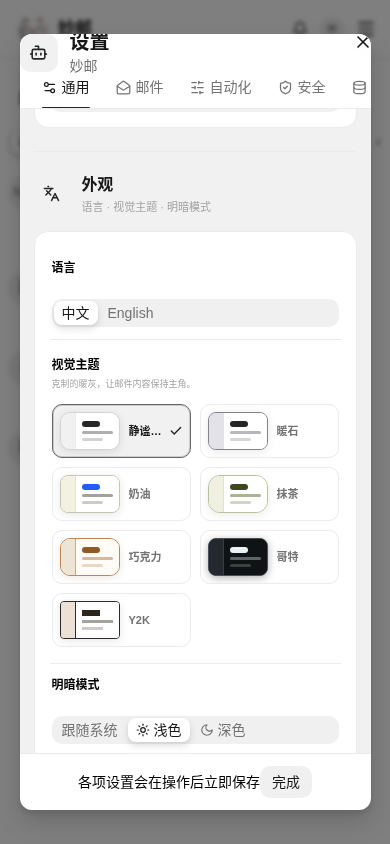
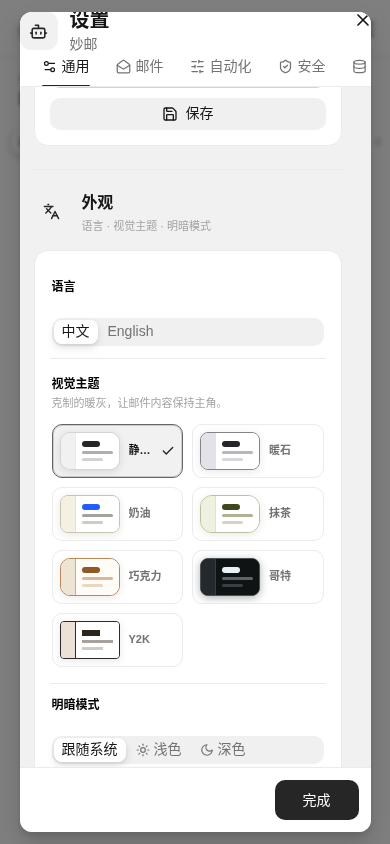
feat: release Meowmail 0.4.0

diff --git a/web/src/styles/app.css b/web/src/styles/app.css
@@ -299,14 +299,19 @@ button { touch-action: manipulation; }
 
 /* Account dialog */
 .account-dialog-form, .account-dialog-layout { width: 100%; min-height: 0; }
-.account-dialog-layout { height: min(800px, 92dvh); }
-.account-dialog-content { min-height: 0; background: var(--bg-subtle); }
+.account-dialog-layout { height: min(800px, calc(100dvh - 32px)); }
+.account-dialog-content { min-height: 0; overflow: auto; overscroll-behavior: contain; scrollbar-gutter: stable; background: var(--bg-subtle); }
 .account-dialog-icon { display: grid; place-items: center; width: 36px; height: 36px; border-radius: 11px; background: var(--accent-soft); color: var(--accent); }
 .account-dialog-icon svg { width: 18px; height: 18px; }
 .account-dialog-sections { min-height: 100%; background: var(--bg-surface); }
 .account-form-section { padding: 20px 24px; }
 .account-form-section + .account-form-section { border-top: 1px solid var(--border); }
+.account-preset-section { display: grid; gap: 12px; }
+.account-preset-heading { display: grid; gap: 2px; }
+.account-preset-heading strong { font-size: 12px; }
+.account-preset-heading small { color: var(--text-tertiary); font-size: 10px; line-height: 1.5; }
 .account-preset-row, .account-dialog-actions { display: flex; align-items: center; flex-wrap: wrap; gap: 8px; }
+.account-preset-row > button { flex: 0 0 auto; }
 .account-form-grid { display: grid; grid-template-columns: repeat(2, minmax(0, 1fr)); gap: 16px; }
 .account-server-grid { display: grid; grid-template-columns: repeat(2, minmax(0, 1fr)); gap: 14px; background: var(--bg-subtle); }
 .account-server-card { display: grid; gap: 14px; padding: 16px; border: 1px solid var(--border); border-radius: 14px; background: var(--bg-surface); }
@@ -325,10 +330,13 @@ button { touch-action: manipulation; }
 .account-native-field input { width: 100%; height: 32px; padding: 0 10px; border: 1px solid var(--border-strong); border-radius: 8px; outline: 0; background: var(--bg-surface); color: var(--text-primary); font: inherit; font-weight: 450; transition: border-color var(--duration-fast) var(--ease-out), box-shadow var(--duration-fast) var(--ease-out); }
 .account-native-field input::placeholder { color: var(--text-tertiary); opacity: .82; }
 .account-native-field input:focus { border-color: var(--accent); box-shadow: 0 0 0 3px color-mix(in srgb, var(--accent) 11%, transparent); }
+.account-dialog-footer { background: color-mix(in srgb, var(--bg-elevated) 94%, transparent); }
 .account-dialog-footer > div { display: flex; align-items: center; justify-content: space-between; gap: 14px; width: 100%; }
+.account-dialog-actions > button:first-child { min-width: 112px; }
+.account-dialog-actions > button:last-child { min-width: 76px; }
 
 .settings-dialog { position: relative; }
-.settings-dialog-layout { width: 100%; height: min(780px, 92dvh); min-height: min(680px, 92dvh); }
+.settings-dialog-layout { width: 100%; height: min(780px, calc(100dvh - 32px)); min-height: min(680px, calc(100dvh - 32px)); }
 .settings-dialog-header { background: color-mix(in srgb, var(--bg-elevated) 92%, transparent); backdrop-filter: blur(24px) saturate(160%); }
 .settings-dialog-icon, .settings-panel-icon {
   display: grid;
@@ -343,8 +351,8 @@ button { touch-action: manipulation; }
 .settings-tab-list { overflow-x: auto; padding-inline: 18px; scrollbar-width: none; }
 .settings-tab-list::-webkit-scrollbar { display: none; }
 .settings-tab-list svg { width: 15px; height: 15px; }
-.settings-dialog-content { min-height: 0; background: var(--bg-subtle); }
-.settings-tab-panel { width: min(760px, calc(100% - 48px)); min-height: 100%; margin: 0 auto; padding: 32px 0 72px; outline: 0; }
+.settings-dialog-content { min-height: 0; overflow: auto; overscroll-behavior: contain; scrollbar-gutter: stable; background: var(--bg-subtle); }
+.settings-tab-panel { width: min(760px, calc(100% - 48px)); min-height: 100%; margin: 0 auto; padding: 30px 0 48px; outline: 0; }
 .settings-panel-stack { display: grid; gap: 18px; }
 .settings-panel-heading { display: flex; align-items: flex-start; gap: 12px; }
 .settings-panel-icon { width: 36px; height: 36px; margin-top: 1px; }
@@ -372,7 +380,7 @@ button { touch-action: manipulation; }
 .settings-choice-row + .settings-choice-row { border-top: 1px solid var(--border); }
 .settings-choice-row > div:first-child { display: grid; min-width: 0; }
 .settings-choice-row strong { font-size: 12px; }
-.settings-choice-row small { margin-top: 3px; color: var(--text-tertiary); font-size: 9px; }
+.settings-choice-row small { margin-top: 3px; color: var(--text-tertiary); font-size: 11px; line-height: 1.45; }
 .settings-theme-choice-row { align-items: flex-start; flex-direction: column; gap: 12px; padding-block: 16px; }
 .settings-theme-grid { display: grid; grid-template-columns: repeat(2, minmax(0, 1fr)); gap: 9px; width: 100%; margin: 0; padding: 0; border: 0; }
 .settings-theme-option { position: relative; display: grid; grid-template-columns: 60px minmax(0, 1fr); align-items: center; gap: 9px; min-width: 0; padding: 7px; overflow: hidden; border: 1px solid var(--border); border-radius: var(--radius-control); background: color-mix(in srgb, var(--bg-surface) 88%, transparent); cursor: pointer; transition: transform 140ms var(--ease-out), border-color 140ms ease, background-color 140ms ease, box-shadow 140ms ease; }
@@ -398,7 +406,7 @@ button { touch-action: manipulation; }
 .settings-status-row { display: flex; align-items: center; justify-content: space-between; gap: 18px; }
 .settings-status-row > div { display: grid; min-width: 0; }
 .settings-status-row strong { font-size: 12px; }
-.settings-status-row small { max-width: 560px; margin-top: 3px; color: var(--text-tertiary); font-size: 9px; line-height: 1.5; }
+.settings-status-row small { max-width: 560px; margin-top: 3px; color: var(--text-tertiary); font-size: 11px; line-height: 1.5; }
 .settings-code-row { display: flex; align-items: center; justify-content: space-between; gap: 14px; padding: 11px 12px; border-radius: 10px; background: var(--bg-muted); color: var(--text-tertiary); font-size: 10px; }
 .settings-code-row code { min-width: 0; overflow: hidden; color: var(--text-secondary); font: 500 10px/1.4 var(--font-mono); text-overflow: ellipsis; white-space: nowrap; }
 .settings-token-reveal { overflow: hidden; border: 1px solid color-mix(in srgb, var(--warning) 24%, var(--border)); border-radius: 12px; }
@@ -411,21 +419,23 @@ button { touch-action: manipulation; }
 .settings-native-field { display: grid; min-width: 0; gap: 7px; color: var(--text-secondary); font-size: 11px; font-weight: 650; }
 .settings-native-field input { width: 100%; height: 36px; padding: 0 10px; border: 1px solid var(--border-strong); border-radius: 9px; outline: 0; background: var(--bg-surface); color: var(--text-primary); }
 .settings-native-field input:focus { border-color: var(--accent); box-shadow: 0 0 0 3px color-mix(in srgb, var(--accent) 11%, transparent); }
-.settings-native-field small { color: var(--text-tertiary); font-size: 9px; font-weight: 400; }
+.settings-native-field small { color: var(--text-tertiary); font-size: 10px; font-weight: 400; line-height: 1.45; }
 .settings-section-picker { display: grid; grid-template-columns: repeat(2, minmax(0, 1fr)); gap: 12px 18px; padding: 14px 0; border-top: 1px solid var(--border); border-bottom: 1px solid var(--border); }
 .settings-transfer-actions { display: grid; grid-template-columns: max-content minmax(240px, 1fr); align-items: end; gap: 10px; }
 .settings-import-block { display: grid; gap: 14px; padding-top: 16px; border-top: 1px solid var(--border); }
 .settings-form-grid { display: grid; gap: 14px; }
 .settings-mono-field input { font-family: var(--font-mono); }
 .settings-placeholder-reference { display: grid; gap: 8px; padding: 12px; border-radius: 11px; background: var(--bg-muted); }
-.settings-placeholder-reference > span { color: var(--text-tertiary); font-size: 9px; font-weight: 700; }
+.settings-placeholder-reference > span { color: var(--text-tertiary); font-size: 10px; font-weight: 700; }
 .settings-placeholder-reference > div { display: flex; flex-wrap: wrap; gap: 6px; }
-.settings-placeholder-reference code { padding: 3px 6px; border: 1px solid var(--border); border-radius: 6px; background: var(--bg-surface); color: var(--accent); font: 500 9px/1.4 var(--font-mono); }
+.settings-placeholder-reference code { padding: 3px 6px; border: 1px solid var(--border); border-radius: 6px; background: var(--bg-surface); color: var(--accent); font: 500 10px/1.4 var(--font-mono); }
 .settings-sync-form { display: grid; gap: 14px; padding-top: 16px; border-top: 1px solid var(--border); }
 .settings-sync-controls { display: flex; align-items: end; justify-content: space-between; gap: 16px; }
 .settings-sync-controls > small { color: var(--text-tertiary); font-size: 10px; }
-.settings-dialog-footer { display: flex; align-items: center; justify-content: space-between; gap: 16px; }
-.settings-dialog-footer > span { color: var(--text-tertiary); font-size: 9px; }
+.settings-dialog-footer { background: color-mix(in srgb, var(--bg-elevated) 94%, transparent); }
+.settings-dialog-footer > div { display: flex; align-items: center; justify-content: space-between; gap: 16px; width: 100%; }
+.settings-dialog-footer > div > span { color: var(--text-tertiary); font-size: 11px; }
+.settings-dialog-footer > div > button { min-width: 84px; }
 .settings-dialog-notice { position: absolute; z-index: 4; right: 24px; bottom: 74px; width: min(420px, calc(100% - 48px)); filter: drop-shadow(var(--shadow-low)); }
 /* Mail preferences */
 .mail-experience-form { display: grid; gap: 24px; }
@@ -438,7 +448,7 @@ button { touch-action: manipulation; }
 .mail-preference-choice-row { display: flex; align-items: center; justify-content: space-between; gap: 18px; min-width: 0; }
 .mail-preference-choice-row > div:first-child { display: grid; min-width: 0; gap: 3px; }
 .mail-preference-choice-row strong { font-size: 12px; }
-.mail-preference-choice-row small { max-width: 440px; color: var(--text-tertiary); font-size: 9px; line-height: 1.5; }
+.mail-preference-choice-row small { max-width: 440px; color: var(--text-tertiary); font-size: 10px; line-height: 1.5; }
 .mail-preference-choice-row [role="radiogroup"] { flex: 0 0 auto; }
 .mail-preference-check-grid { display: grid; grid-template-columns: repeat(3, minmax(0, 1fr)); gap: 10px 16px; padding: 14px 0; border-top: 1px solid var(--border); border-bottom: 1px solid var(--border); }
 .mail-preference-inset { margin-top: -6px; padding: 14px; border-radius: 12px; background: var(--bg-subtle); }
@@ -628,7 +638,7 @@ button { touch-action: manipulation; }
   .login-card-wrap { justify-content: center; }
   .login-card { padding: 27px 22px; }
   .login-card-heading h2 { font-size: 23px; }
-  .account-dialog-layout { height: calc(100dvh - max(12px, env(safe-area-inset-top))); }
+  .account-dialog-layout { height: calc(100dvh - max(24px, calc(env(safe-area-inset-top) + 12px))); }
   .account-form-grid, .account-server-grid { grid-template-columns: 1fr; }
   .account-form-section { padding: 18px 16px; }
   .account-server-row { grid-template-columns: minmax(92px, .55fr) minmax(138px, 1fr); }
@@ -636,9 +646,9 @@ button { touch-action: manipulation; }
   .account-dialog-footer > div { align-items: stretch; flex-direction: column; }
   .account-dialog-footer > div > span:first-child:empty { display: none; }
   .account-dialog-actions { justify-content: flex-end; }
-  .settings-dialog-layout { height: calc(100dvh - max(12px, env(safe-area-inset-top))); min-height: 0; }
+  .settings-dialog-layout { height: calc(100dvh - max(24px, calc(env(safe-area-inset-top) + 12px))); min-height: 0; }
   .settings-tab-list { padding-inline: 10px; }
-  .settings-tab-panel { width: min(100% - 28px, 760px); padding: 24px 0 88px; }
+  .settings-tab-panel { width: min(100% - 28px, 760px); padding: 24px 0 56px; }
   .settings-panel-stack { gap: 15px; }
   .settings-profile-block, .settings-choice-list, .settings-security-block, .settings-mcp-block, .settings-data-block, .settings-automation-block, .settings-notification-block { padding: 15px; border-radius: 14px; }
   .settings-avatar-actions, .settings-inline-form, .settings-transfer-actions { grid-template-columns: 1fr; }
@@ -650,8 +660,8 @@ button { touch-action: manipulation; }
   .settings-token-row, .settings-sync-controls { align-items: stretch; flex-direction: column; }
   .settings-sync-controls > button, .settings-token-row > button { width: 100%; }
   .settings-last-used { width: 100%; margin-left: 0; }
-  .settings-dialog-footer > span { display: none; }
-  .settings-dialog-footer > button { margin-left: auto; }
+  .settings-dialog-footer > div > span { display: none; }
+  .settings-dialog-footer > div > button { min-height: 40px; margin-left: auto; }
   .settings-dialog-notice { right: 14px; bottom: 70px; width: calc(100% - 28px); }
   .mail-preference-choice-row { align-items: stretch; flex-direction: column; }
   .mail-preference-choice-row [role="radiogroup"] { width: 100%; }
@@ -692,7 +702,7 @@ button { touch-action: manipulation; }
   .login-utility { top: 13px; right: 13px; }
   .account-server-row { grid-template-columns: 1fr; }
   .account-dialog-actions { display: grid; grid-template-columns: 1fr 1fr; }
-  .account-dialog-actions > button { width: 100%; }
+  .account-dialog-actions > button { width: 100%; min-height: 44px; }
 }
 
 @media (prefers-reduced-transparency: reduce) {

diff --git a/web/src/features/accounts/AccountDialog.tsx b/web/src/features/accounts/AccountDialog.tsx
@@ -21,6 +21,35 @@ interface Props {
   onDeleted: () => void
 }
 
+type AccountPreset = "gmail" | "outlook" | "qq" | "netease163" | "tencentExmail" | "aliyunEnterprise" | "custom"
+
+const serverPresets: Record<Exclude<AccountPreset, "custom">, Pick<AccountInput, "imap" | "smtp">> = {
+  gmail: {
+    imap: { host: "imap.gmail.com", port: 993, security: "tls" },
+    smtp: { host: "smtp.gmail.com", port: 465, security: "tls" },
+  },
+  outlook: {
+    imap: { host: "outlook.office365.com", port: 993, security: "tls" },
+    smtp: { host: "smtp.office365.com", port: 587, security: "starttls" },
+  },
+  qq: {
+    imap: { host: "imap.qq.com", port: 993, security: "tls" },
+    smtp: { host: "smtp.qq.com", port: 465, security: "tls" },
+  },
+  netease163: {
+    imap: { host: "imap.163.com", port: 993, security: "tls" },
+    smtp: { host: "smtp.163.com", port: 465, security: "tls" },
+  },
+  tencentExmail: {
+    imap: { host: "imap.exmail.qq.com", port: 993, security: "tls" },
+    smtp: { host: "smtp.exmail.qq.com", port: 465, security: "tls" },
+  },
+  aliyunEnterprise: {
+    imap: { host: "imap.qiye.aliyun.com", port: 993, security: "tls" },
+    smtp: { host: "smtp.qiye.aliyun.com", port: 465, security: "tls" },
+  },
+}
+
 function emptyInput(): AccountInput {
   return {
     displayName: "",
@@ -67,7 +96,7 @@ export function AccountDialog({ isOpen = true, account, onClose, onSaved, onDele
     setMessage(null)
   }, [account, isOpen])
 
-  function preset(kind: "gmail" | "outlook" | "custom") {
+  function preset(kind: AccountPreset, displayName: string) {
     if (kind === "custom") {
       setInput((value) => ({
         ...value,
@@ -76,15 +105,12 @@ export function AccountDialog({ isOpen = true, account, onClose, onSaved, onDele
       }))
       return
     }
+    const servers = serverPresets[kind]
     setInput((value) => ({
       ...value,
-      displayName: value.displayName || (kind === "gmail" ? "Gmail" : "Outlook"),
-      imap: kind === "gmail"
-        ? { host: "imap.gmail.com", port: 993, security: "tls" }
-        : { host: "outlook.office365.com", port: 993, security: "tls" },
-      smtp: kind === "gmail"
-        ? { host: "smtp.gmail.com", port: 465, security: "tls" }
-        : { host: "smtp.office365.com", port: 587, security: "starttls" },
+      displayName: value.displayName || displayName,
+      imap: { ...servers.imap },
+      smtp: { ...servers.smtp },
     }))
   }
 
@@ -156,7 +182,7 @@ export function AccountDialog({ isOpen = true, account, onClose, onSaved, onDele
         onOpenChange={(open) => { if (!open && !isBusy) onClose() }}
         purpose="form"
         width={820}
-        maxHeight="92dvh"
+        maxHeight="calc(100dvh - 24px)"
         padding={0}
         aria-label={account ? t("editAccount") : t("addAccount")}
       >
@@ -178,10 +204,18 @@ export function AccountDialog({ isOpen = true, account, onClose, onSaved, onDele
               <LayoutContent className="account-dialog-content" padding={0} isScrollable>
                 <div className="account-dialog-sections">
                   <section className="account-form-section account-preset-section" aria-label={t("preset")}>
+                    <div className="account-preset-heading">
+                      <strong>{t("preset")}</strong>
+                      <small>{t("presetDescription")}</small>
+                    </div>
                     <div className="account-preset-row">
-                      <Button label="Gmail" variant="secondary" size="sm" onClick={() => preset("gmail")} />
-                      <Button label="Outlook" variant="secondary" size="sm" onClick={() => preset("outlook")} />
-                      <Button label={t("custom")} icon={<Server aria-hidden="true" />} variant="secondary" size="sm" onClick={() => preset("custom")} />
+                      <Button label="Gmail" variant="secondary" size="sm" onClick={() => preset("gmail", "Gmail")} />
+                      <Button label="Outlook" variant="secondary" size="sm" onClick={() => preset("outlook", "Outlook")} />
+                      <Button label={t("providerQqMail")} variant="secondary" size="sm" onClick={() => preset("qq", t("providerQqMail"))} />
+                      <Button label={t("provider163Mail")} variant="secondary" size="sm" onClick={() => preset("netease163", t("provider163Mail"))} />
+                      <Button label={t("providerTencentExmail")} variant="secondary" size="sm" onClick={() => preset("tencentExmail", t("providerTencentExmail"))} />
+                      <Button label={t("providerAliyunMail")} variant="secondary" size="sm" onClick={() => preset("aliyunEnterprise", t("providerAliyunMail"))} />
+                      <Button label={t("custom")} icon={<Server aria-hidden="true" />} variant="secondary" size="sm" onClick={() => preset("custom", t("custom"))} />
                     </div>
                   </section>
 
@@ -203,8 +237,8 @@ export function AccountDialog({ isOpen = true, account, onClose, onSaved, onDele
                   {account && <Button label={t("delete")} icon={<Trash2 aria-hidden="true" />} variant="destructive" isDisabled={isBusy} onClick={requestDelete} />}
                 </span>
                 <span className="account-dialog-actions">
-                  <Button label={busy === "test" ? t("testing") : t("testConnection")} variant="secondary" isLoading={busy === "test"} isDisabled={isBusy || !isComplete} onClick={() => void testConnection()} />
-                  <Button label={busy === "save" ? t("saving") : t("save")} variant="primary" type="submit" isLoading={busy === "save"} isDisabled={isBusy || !isComplete} />
+                  <Button label={busy === "test" ? t("testing") : t("testConnection")} variant="secondary" size="lg" isLoading={busy === "test"} isDisabled={isBusy || !isComplete} onClick={() => void testConnection()} />
+                  <Button label={busy === "save" ? t("saving") : t("save")} variant="primary" size="lg" type="submit" isLoading={busy === "save"} isDisabled={isBusy || !isComplete} />
                 </span>
               </LayoutFooter>
             }

diff --git a/web/src/features/accounts/AccountDialog.test.tsx b/web/src/features/accounts/AccountDialog.test.tsx
@@ -105,3 +105,23 @@ test("clearing a required server port invalidates the account draft", async () =
   expect(save).toBeDisabled()
   expect(imapPort).toHaveValue(null)
 })
+
+test.each([
+  ["QQ Mail", "imap.qq.com", "smtp.qq.com", 465],
+  ["163 Mail", "imap.163.com", "smtp.163.com", 465],
+  ["Tencent Exmail", "imap.exmail.qq.com", "smtp.exmail.qq.com", 465],
+  ["Alibaba Mail", "imap.qiye.aliyun.com", "smtp.qiye.aliyun.com", 465],
+] as const)("applies the %s server preset", async (label, imapHost, smtpHost, smtpPort) => {
+  const user = userEvent.setup()
+  renderDialog()
+
+  const dialog = screen.getByRole("dialog", { name: "Add mail account" })
+  await user.click(within(dialog).getByRole("button", { name: label }))
+
+  const imap = within(dialog).getByRole("region", { name: "IMAP incoming server" })
+  const smtp = within(dialog).getByRole("region", { name: "SMTP outgoing server" })
+  expect(within(imap).getByRole("textbox", { name: /Host/ })).toHaveValue(imapHost)
+  expect(within(imap).getByRole("spinbutton", { name: /Port/ })).toHaveValue(993)
+  expect(within(smtp).getByRole("textbox", { name: /Host/ })).toHaveValue(smtpHost)
+  expect(within(smtp).getByRole("spinbutton", { name: /Port/ })).toHaveValue(smtpPort)
+})

diff --git a/web/src/i18n/messages.ts b/web/src/i18n/messages.ts
@@ -149,6 +149,11 @@ export const messages = {
     proxyPasswordPlaceholder: "可留空",
     defaultAccount: "设为默认发件账户",
     preset: "快速配置",
+    presetDescription: "仅填写收发服务器，不会更改邮箱地址、用户名或密码。",
+    providerQqMail: "QQ 邮箱",
+    provider163Mail: "163 网易",
+    providerTencentExmail: "腾讯企业邮",
+    providerAliyunMail: "阿里企业邮",
     custom: "自定义",
     appearance: "外观",
     language: "语言",
@@ -622,6 +627,11 @@ export const messages = {
     proxyPasswordPlaceholder: "Leave blank if unused",
     defaultAccount: "Use as default sending account",
     preset: "Quick setup",
+    presetDescription: "Fills server details only; your address, username, and password stay unchanged.",
+    providerQqMail: "QQ Mail",
+    provider163Mail: "163 Mail",
+    providerTencentExmail: "Tencent Exmail",
+    providerAliyunMail: "Alibaba Mail",
     custom: "Custom",
     appearance: "Appearance",
     language: "Language",

diff --git a/web/src/features/settings/SettingsDialog.tsx b/web/src/features/settings/SettingsDialog.tsx
@@ -52,7 +52,7 @@ export function SettingsDialog({ isOpen = true, session, accounts, mailPreferenc
       onOpenChange={(open) => { if (!open) onClose() }}
       purpose="form"
       width={920}
-      maxHeight="92dvh"
+      maxHeight="calc(100dvh - 24px)"
       padding={0}
       aria-label={t("settings")}
     >
@@ -104,7 +104,7 @@ export function SettingsDialog({ isOpen = true, session, accounts, mailPreferenc
         footer={
           <LayoutFooter className="settings-dialog-footer" padding={3} hasDivider>
             <span>{t("settingsSavedImmediately")}</span>
-            <Button label={t("done")} variant="secondary" onClick={onClose} />
+            <Button label={t("done")} variant="primary" size="lg" onClick={onClose} />
           </LayoutFooter>
         }
       />

diff --git a/README.md b/README.md
@@ -2,7 +2,7 @@
 
 妙邮（Meowmail）是一个自托管、多用户、多邮件账户的 Web 邮件客户端。后端使用 Rust、Axum、SeaORM 与 SQLite，前端使用 React 19 与 Vite。生产构建会把完整 Web 资源嵌入 Rust 可执行文件，运行时无需 Node.js 或独立静态文件服务器。
 
-`0.3.0` 在首个正式版本 `0.2.0` 的多用户基础上新增个人 MCP 接入；`0.1.x` 从未上线，因此仍不包含从旧单用户原型迁移的逻辑。
+`0.4.0` 使用 Astryx 重构完整前端，提供七套视觉主题，并升级邮件阅读、附件预览、设置中心与邮件账户配置体验；`0.3.0` 在多用户基础上加入了个人 MCP 接入。`0.1.x` 从未上线，因此仍不包含从旧单用户原型迁移的逻辑。
 
 ## 界面预览
 
@@ -107,11 +107,11 @@ OIDC 使用 Authorization Code、PKCE、state 与 nonce，并校验 ID Token 的
 正式版本同时发布 `linux/amd64` 与 `linux/arm64` 镜像：
 
 ```bash
-docker pull ghcr.io/ca-x/meowmail:0.3.0
-docker pull czyt/meowmail:0.3.0
+docker pull ghcr.io/ca-x/meowmail:0.4.0
+docker pull czyt/meowmail:0.4.0
 ```
 
-正式 tag 会生成 `v0.3.0`、`0.3.0`、`0.3`、`latest` 和 `sha-<commit>` 标签。下面以 GHCR 为例：
+正式 tag 会生成 `v0.4.0`、`0.4.0`、`0.4`、`latest` 和 `sha-<commit>` 标签。下面以 GHCR 为例：
 
 ```bash
 docker volume create meowmail-data
@@ -123,7 +123,7 @@ docker run --detach \
   --env MEOWMAIL_BOOTSTRAP_ADMIN_USERNAME=admin \
   --env MEOWMAIL_BOOTSTRAP_ADMIN_PASSWORD='请换成足够长的随机密码' \
   --volume meowmail-data:/data \
-  ghcr.io/ca-x/meowmail:0.3.0
+  ghcr.io/ca-x/meowmail:0.4.0
 ```
 
 本地构建可把最后一个镜像名换成 `meowmail:local`：
@@ -155,10 +155,14 @@ docker build --tag meowmail:local .
 
 ## 邮件账户与代理
 
-界面提供 Gmail、Outlook 和自定义预设。请确认服务商已启用 IMAP/SMTP，并优先使用应用专用密码：
+界面提供 Gmail、Outlook、QQ 邮箱、163 网易、腾讯企业邮、阿里企业邮和自定义预设。请确认服务商已启用 IMAP/SMTP，并优先使用应用专用密码：
 
 - Gmail：IMAP `imap.gmail.com:993` TLS；SMTP `smtp.gmail.com:465` TLS 或 `587` STARTTLS
 - Outlook：IMAP `outlook.office365.com:993` TLS；SMTP `smtp.office365.com:587` STARTTLS
+- QQ 邮箱：IMAP `imap.qq.com:993` TLS；SMTP `smtp.qq.com:465` TLS（服务商也支持 `587`）
+- 163 网易：IMAP `imap.163.com:993` TLS；SMTP `smtp.163.com:465` TLS
+- 腾讯企业邮：IMAP `imap.exmail.qq.com:993` TLS；SMTP `smtp.exmail.qq.com:465` TLS
+- 阿里企业邮：IMAP `imap.qiye.aliyun.com:993` TLS；SMTP `smtp.qiye.aliyun.com:465` TLS
 - 自定义：只接受 TLS 或 STARTTLS，不会通过明文连接发送凭据
 
 每个账户可以选择：
@@ -329,7 +333,7 @@ cargo test --locked
 cargo build --release --locked
 ```
 
-推送 `v0.3.0` tag 后：
+推送 `v0.4.0` tag 后：
 
 - `.github/workflows/release.yml` 构建 Linux x86_64/aarch64、Windows x86_64、macOS x86_64/aarch64 压缩包，生成 `SHA256SUMS` 并发布 GitHub Release。
 - `.github/workflows/docker.yml` 构建 amd64/arm64 镜像，附带 provenance 与 SBOM，并同时发布到 `ghcr.io/ca-x/meowmail` 与 `czyt/meowmail`。
